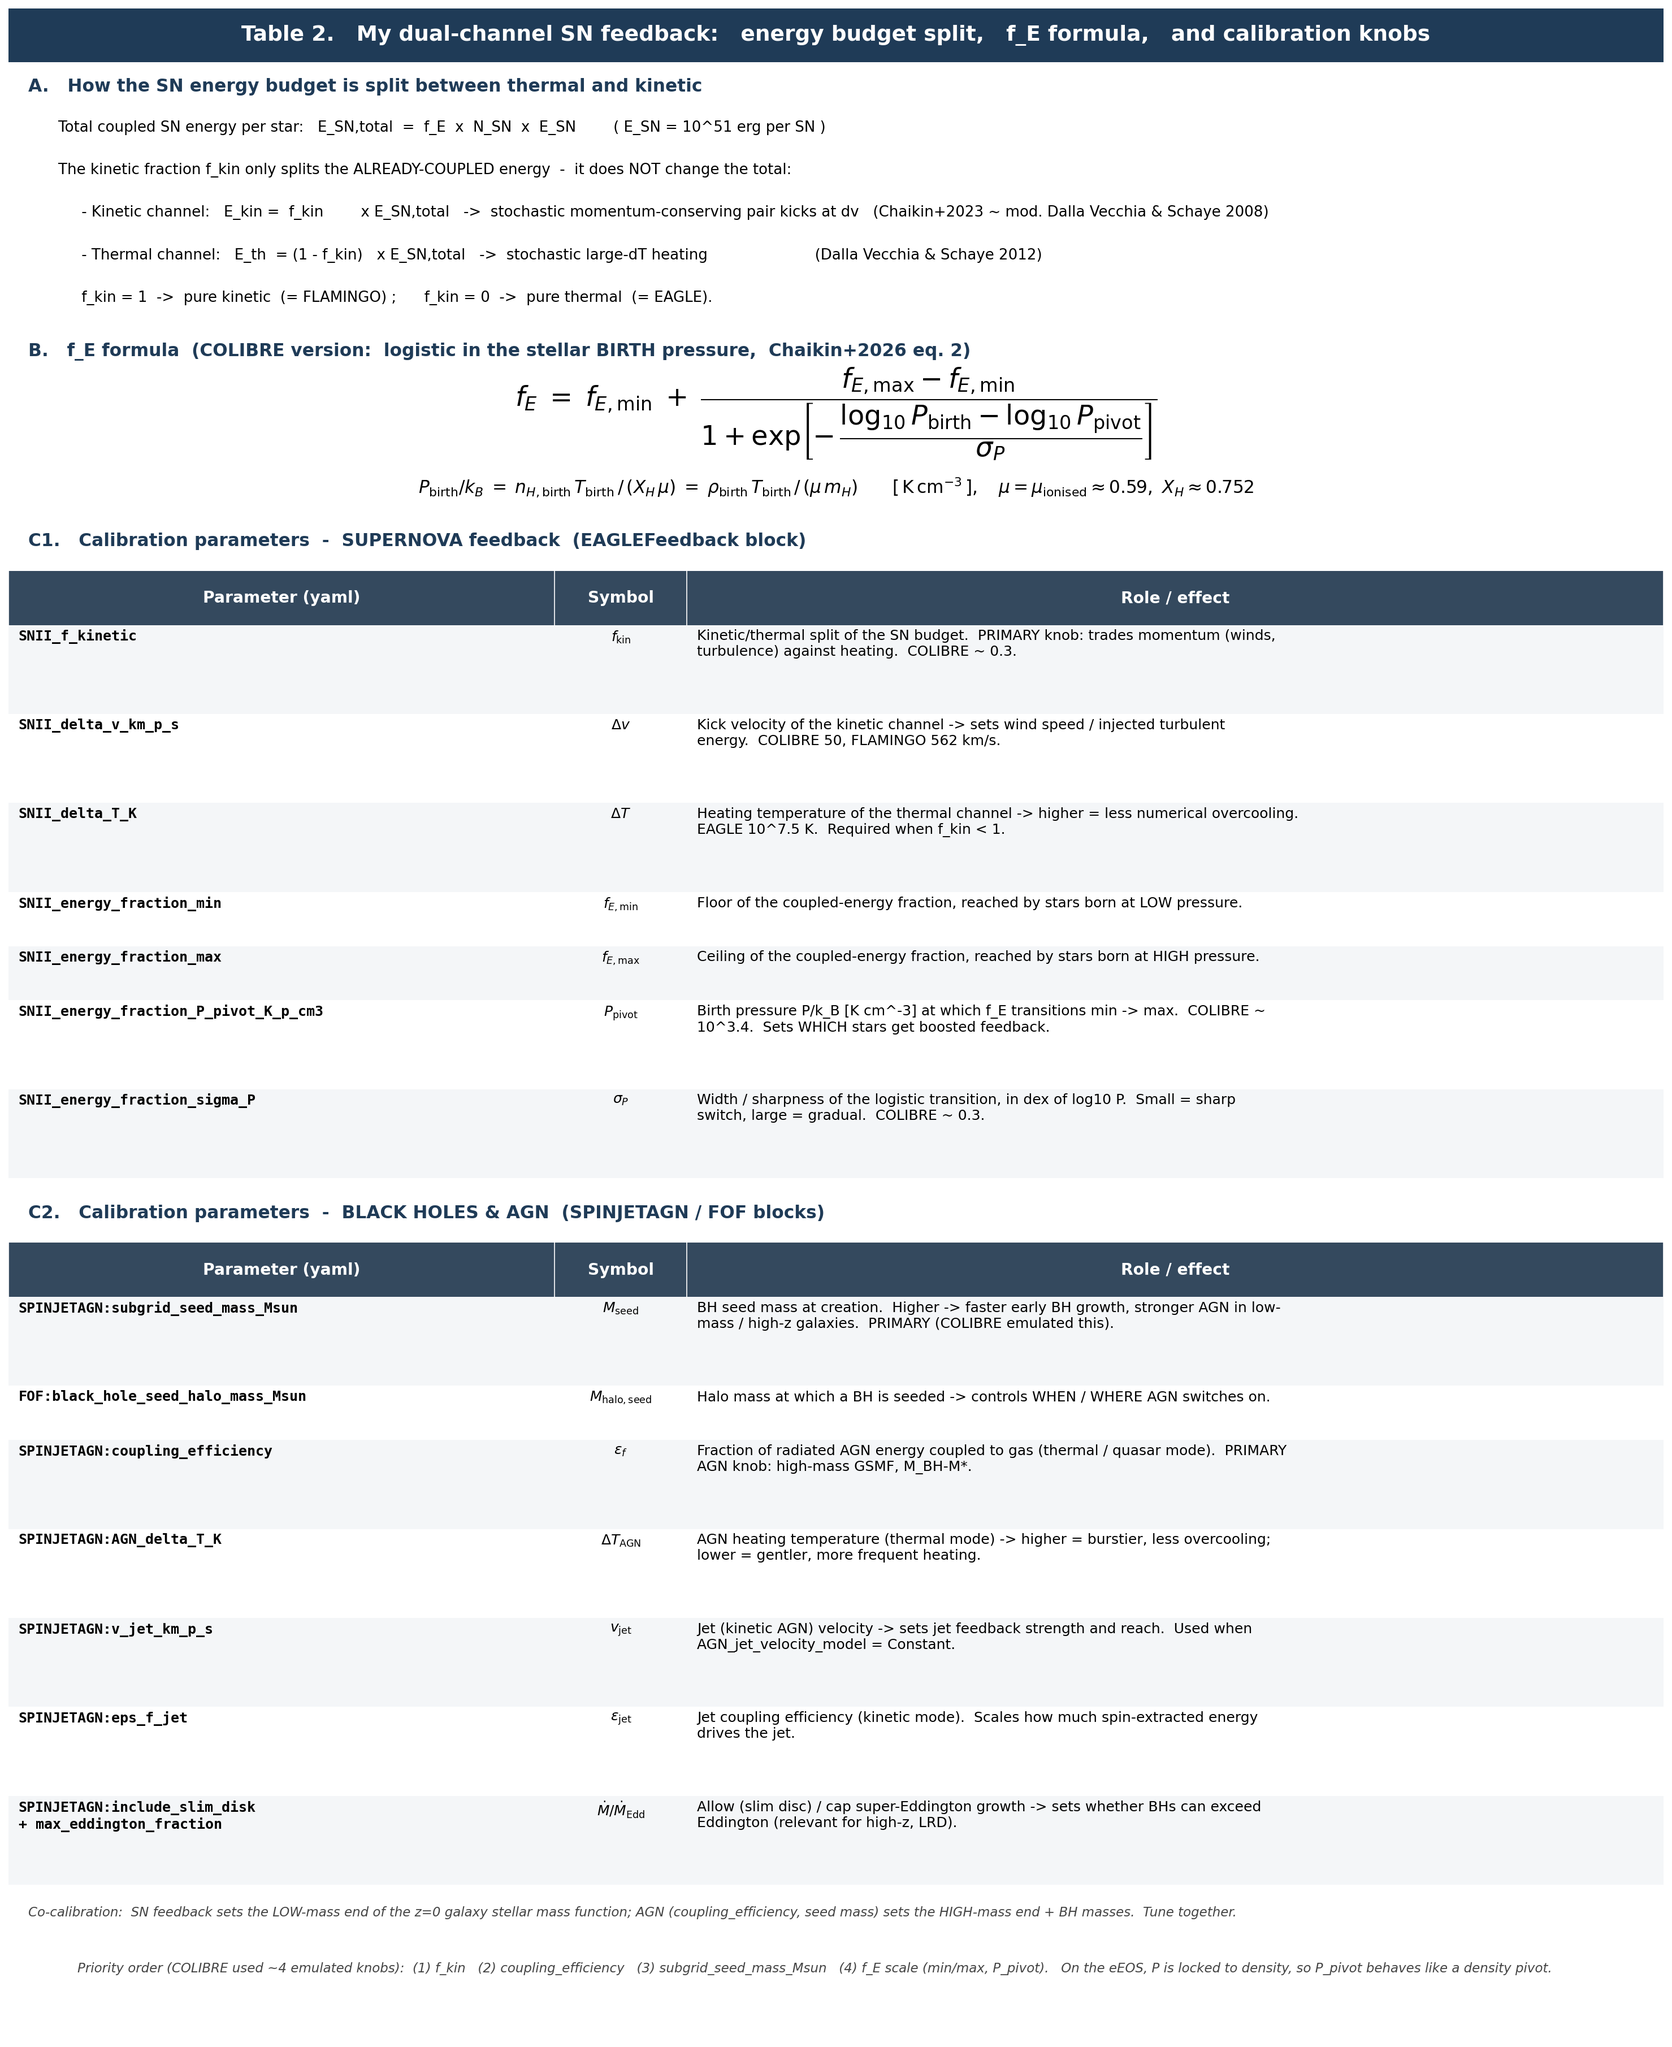
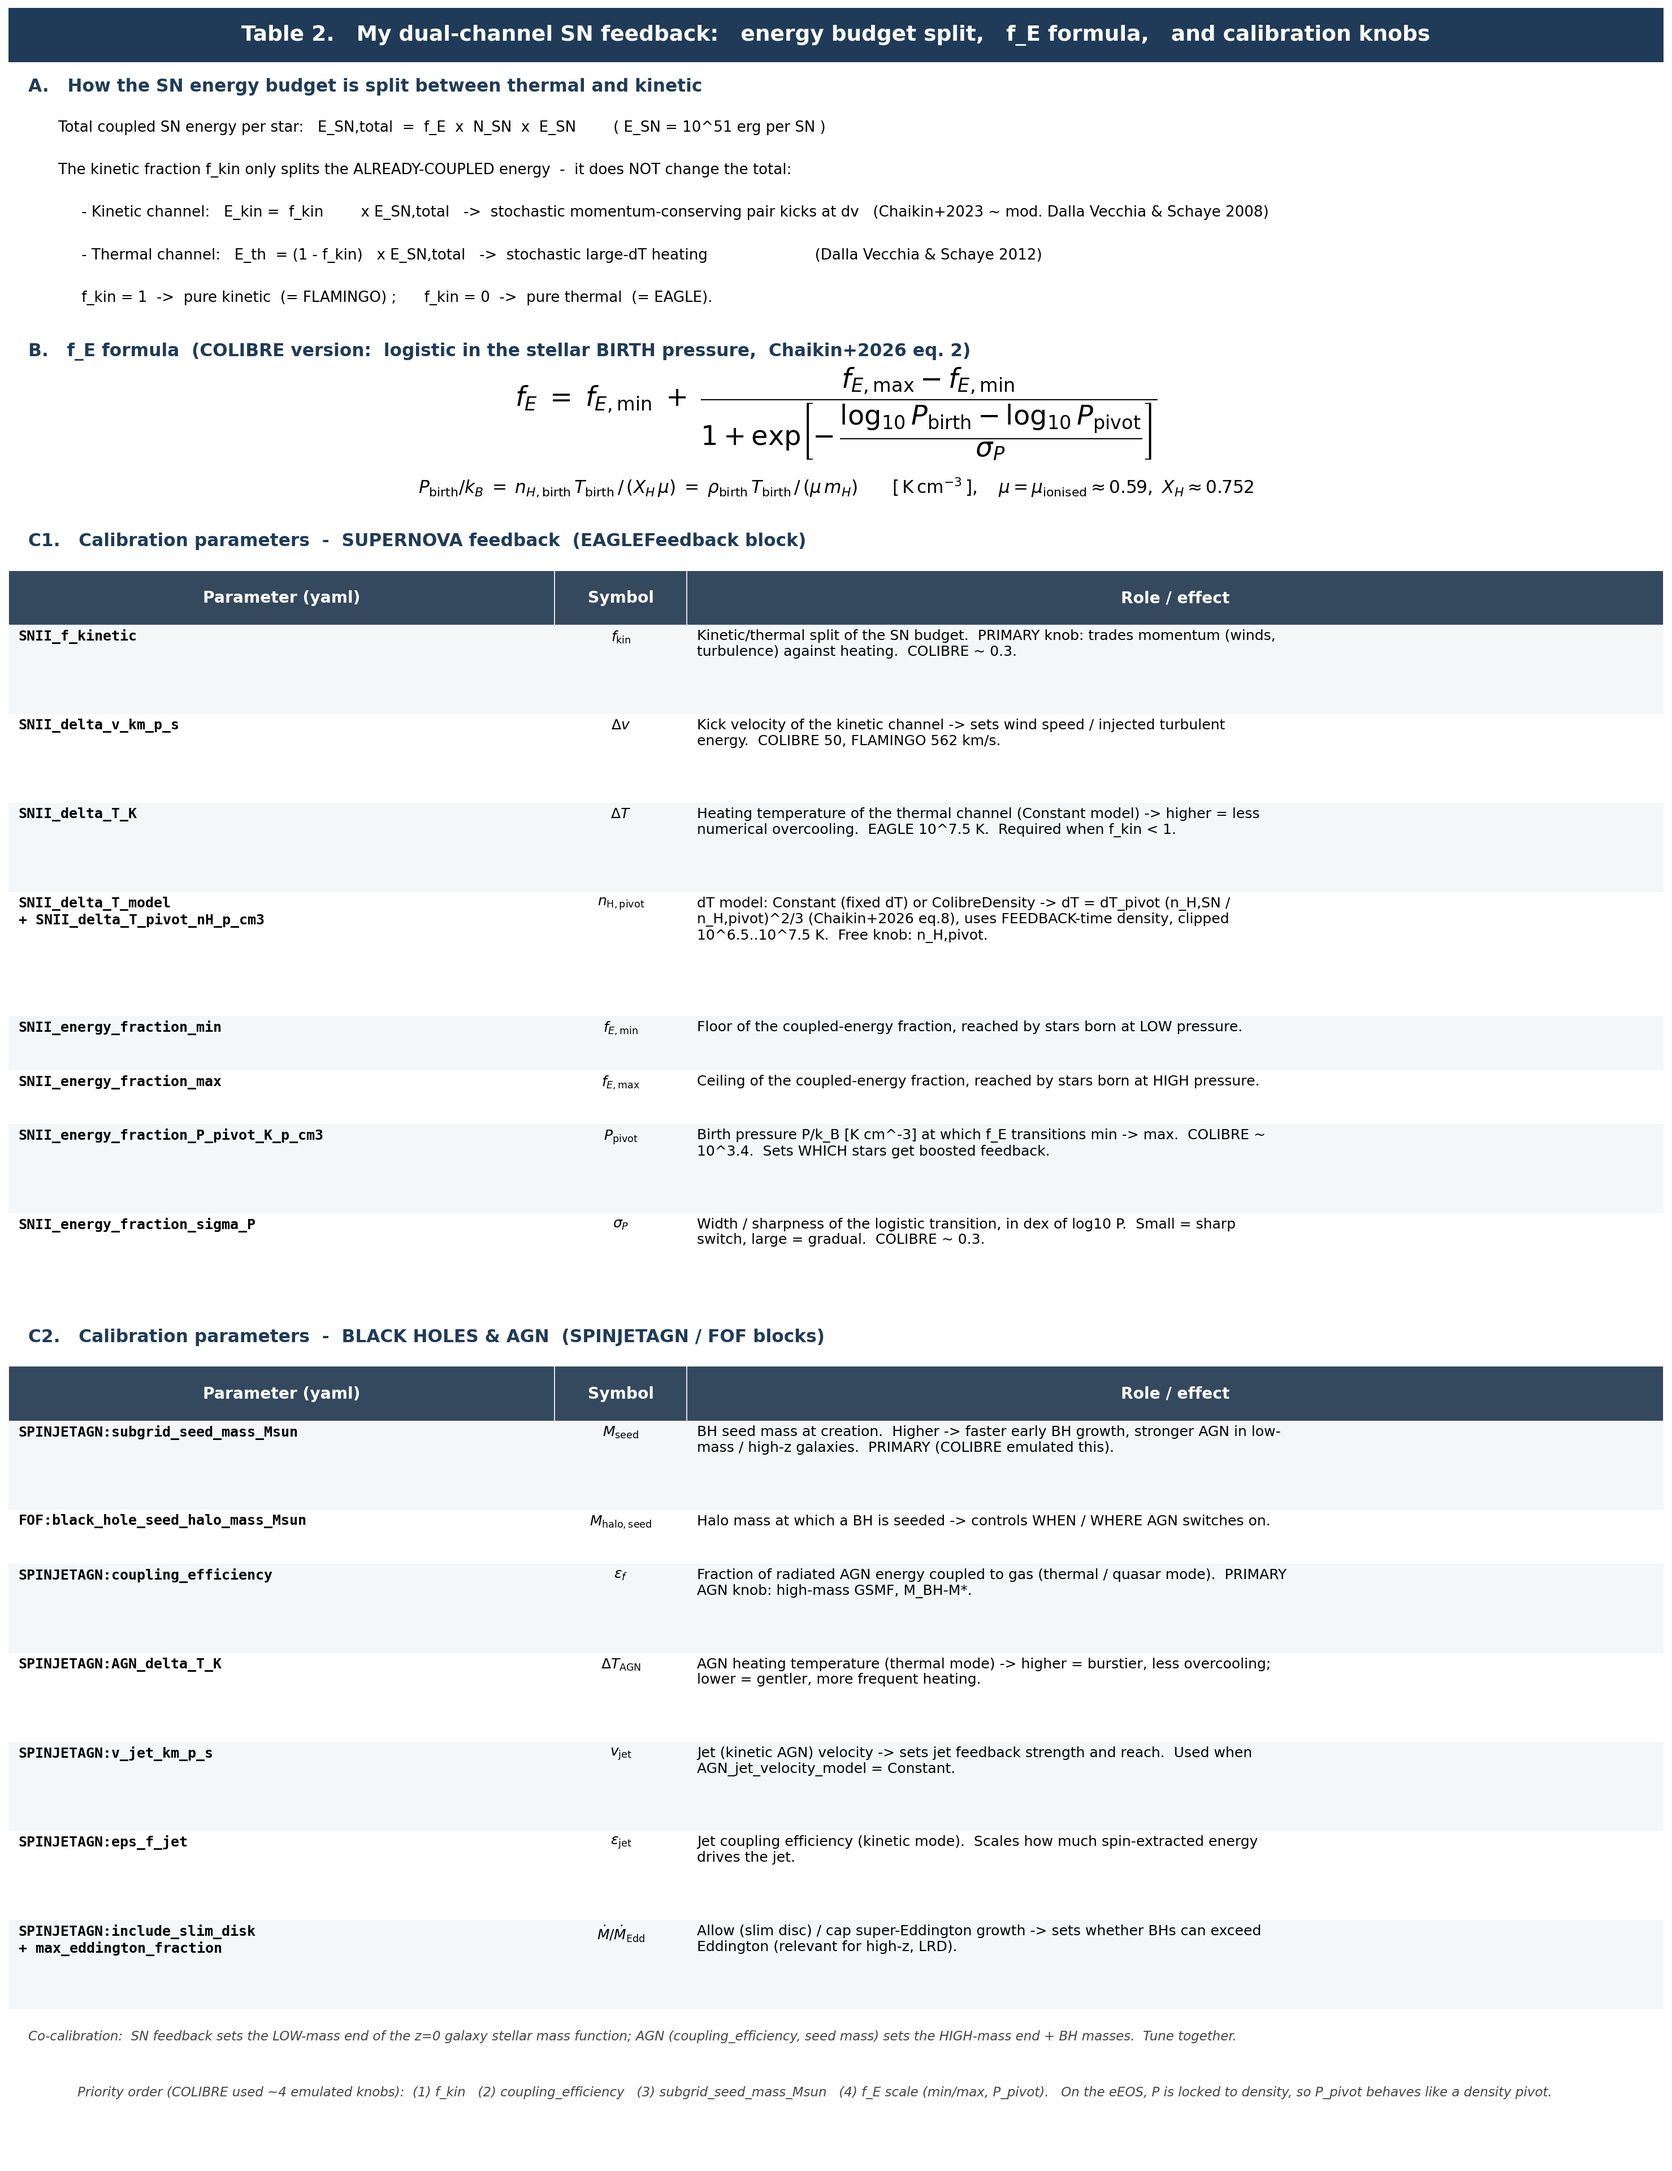
Update Table 2 figure: add delta_T model row to C1
Add a C1 row for SNII_delta_T_model / SNII_delta_T_pivot_nH_p_cm3 (symbol
n_H,pivot) describing the Constant vs ColibreDensity thermal delta_T option
(Chaikin+2026 eq. 8, feedback-time density). The SNII_delta_T_K row now
notes it applies to the Constant model. Regenerated table2_dualchannel.png.

diff --git a/tools/thermal-kinetic/make_comparison_figures.py b/tools/thermal-kinetic/make_comparison_figures.py
@@ -203,7 +203,9 @@ sn_rows = [
  ["SNII_delta_v_km_p_s", r"$\Delta v$",
   "Kick velocity of the kinetic channel -> sets wind speed / injected turbulent energy.  COLIBRE 50, FLAMINGO 562 km/s."],
  ["SNII_delta_T_K", r"$\Delta T$",
-  "Heating temperature of the thermal channel -> higher = less numerical overcooling.  EAGLE 10^7.5 K.  Required when f_kin < 1."],
+  "Heating temperature of the thermal channel (Constant model) -> higher = less numerical overcooling.  EAGLE 10^7.5 K.  Required when f_kin < 1."],
+ ["SNII_delta_T_model\n+ SNII_delta_T_pivot_nH_p_cm3", r"$n_{\rm H,pivot}$",
+  "dT model: Constant (fixed dT) or ColibreDensity -> dT = dT_pivot (n_H,SN / n_H,pivot)^2/3 (Chaikin+2026 eq.8), uses FEEDBACK-time density, clipped 10^6.5..10^7.5 K.  Free knob: n_H,pivot."],
  ["SNII_energy_fraction_min", r"$f_{E,\min}$",
   "Floor of the coupled-energy fraction, reached by stars born at LOW pressure."],
  ["SNII_energy_fraction_max", r"$f_{E,\max}$",
